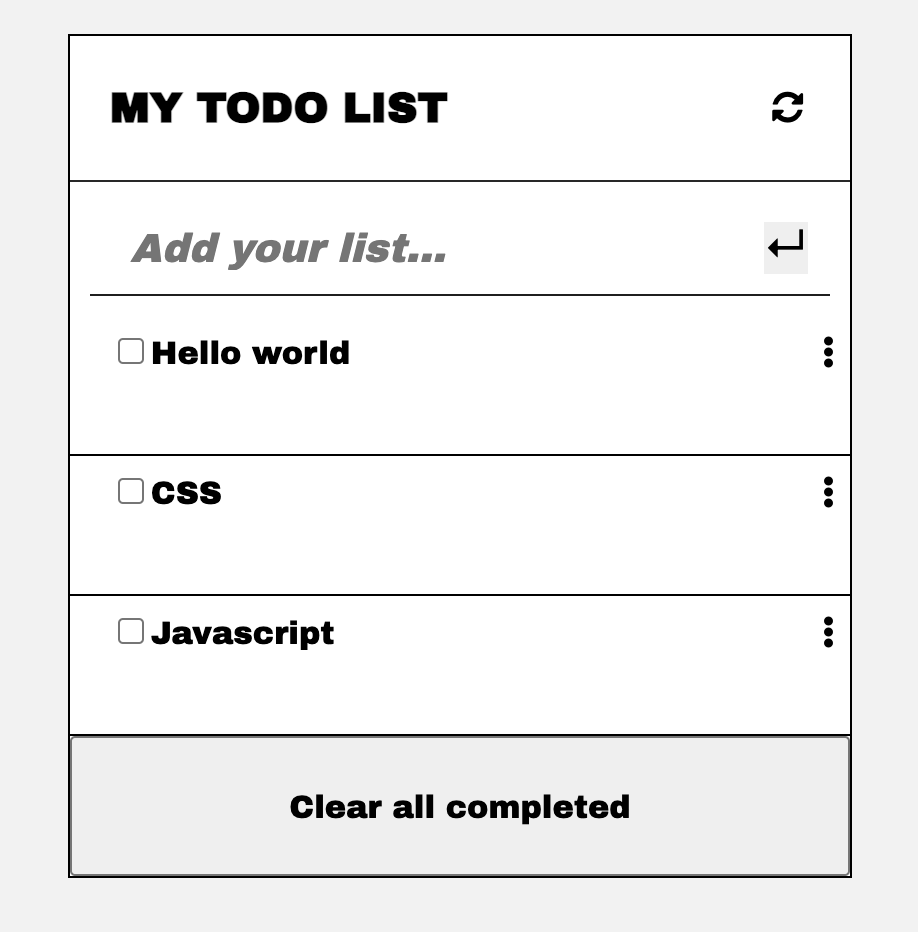
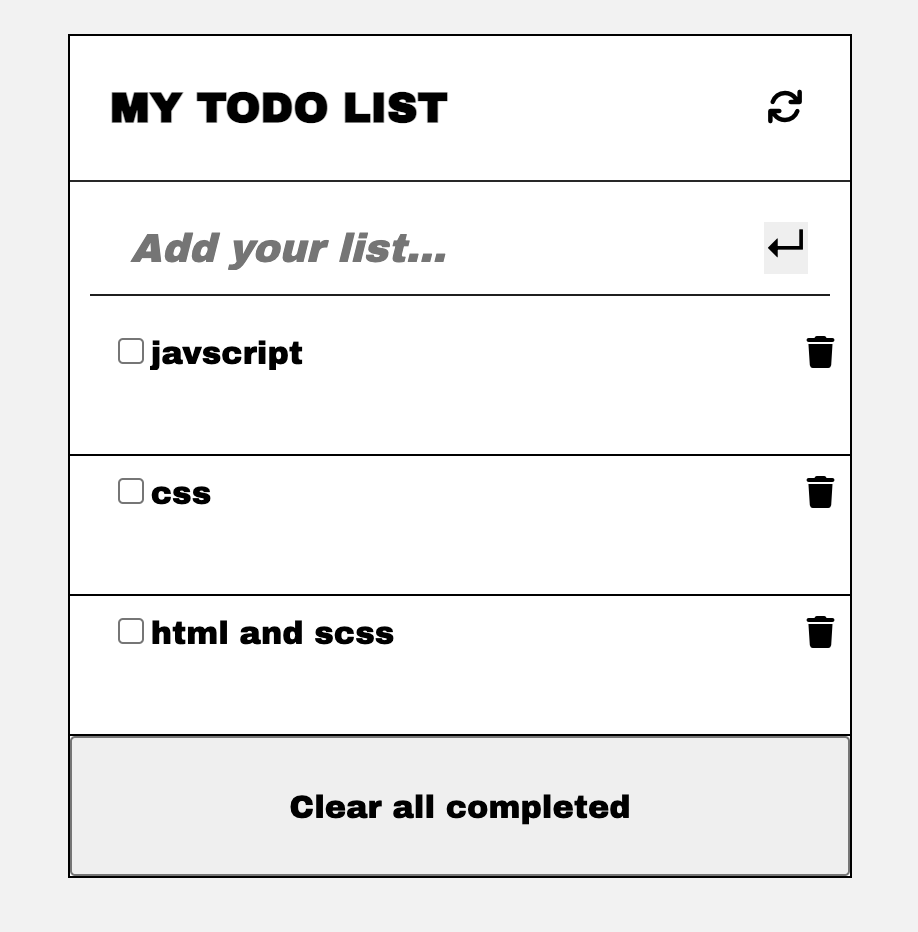
Correct readmefile and htmlfile

diff --git a/dist/output.js b/dist/output.js
@@ -16,7 +16,7 @@
   \*************************************************************/
 /***/ ((module, __webpack_exports__, __webpack_require__) => {
 
-eval("__webpack_require__.r(__webpack_exports__);\n/* harmony export */ __webpack_require__.d(__webpack_exports__, {\n/* harmony export */   \"default\": () => (__WEBPACK_DEFAULT_EXPORT__)\n/* harmony export */ });\n/* harmony import */ var _node_modules_css_loader_dist_runtime_noSourceMaps_js__WEBPACK_IMPORTED_MODULE_0__ = __webpack_require__(/*! ../node_modules/css-loader/dist/runtime/noSourceMaps.js */ \"./node_modules/css-loader/dist/runtime/noSourceMaps.js\");\n/* harmony import */ var _node_modules_css_loader_dist_runtime_noSourceMaps_js__WEBPACK_IMPORTED_MODULE_0___default = /*#__PURE__*/__webpack_require__.n(_node_modules_css_loader_dist_runtime_noSourceMaps_js__WEBPACK_IMPORTED_MODULE_0__);\n/* harmony import */ var _node_modules_css_loader_dist_runtime_api_js__WEBPACK_IMPORTED_MODULE_1__ = __webpack_require__(/*! ../node_modules/css-loader/dist/runtime/api.js */ \"./node_modules/css-loader/dist/runtime/api.js\");\n/* harmony import */ var _node_modules_css_loader_dist_runtime_api_js__WEBPACK_IMPORTED_MODULE_1___default = /*#__PURE__*/__webpack_require__.n(_node_modules_css_loader_dist_runtime_api_js__WEBPACK_IMPORTED_MODULE_1__);\n// Imports\n\n\nvar ___CSS_LOADER_EXPORT___ = _node_modules_css_loader_dist_runtime_api_js__WEBPACK_IMPORTED_MODULE_1___default()((_node_modules_css_loader_dist_runtime_noSourceMaps_js__WEBPACK_IMPORTED_MODULE_0___default()));\n___CSS_LOADER_EXPORT___.push([module.id, \"@import url(https://fonts.googleapis.com/css2?family=Archivo+Black&family=Lato:wght@100;300;400;900&family=Source+Code+Pro:wght@300;400;600;800;900&display=swap);\"]);\n// Module\n___CSS_LOADER_EXPORT___.push([module.id, \"* {\\n  margin: 0;\\n  padding: 0;\\n  box-sizing: border-box;\\n  font-family: 'Archivo Black', sans-serif;\\n}\\n\\nhtml,\\nbody {\\n  overflow-x: scroll;\\n}\\n\\nbody {\\n  position: relative;\\n  height: 100%;\\n  width: 100%;\\n  margin: auto;\\n  background-color: #93bbb5;\\n  display: flex;\\n  align-items: center;\\n  justify-content: center;\\n}\\n\\n.todolist {\\n  margin: 40px;\\n  width: 50%;\\n  background-color: rgb(255, 255, 255);\\n  border: 1px solid black;\\n}\\n\\n.todo-header {\\n  padding: 25px 20px;\\n  display: flex;\\n  justify-content: space-between;\\n  border-bottom: 1px solid rgb(40, 40, 40);\\n  font-size: 18px;\\n}\\n\\n.todo-header a {\\n  margin: auto 1%;\\n}\\n\\n.todo-header a i {\\n  color: black;\\n}\\n\\n.todo-form {\\n  margin: 10px;\\n}\\n\\n#form {\\n  padding: 10px;\\n  border-bottom: 1px solid rgb(31, 31, 31);\\n  display: flex;\\n  justify-content: space-between;\\n}\\n\\n.new-task {\\n  outline: none;\\n  border: none;\\n  margin: auto 1%;\\n  font-size: 20px;\\n  font-style: italic;\\n  width: 100%;\\n}\\n\\n.submit {\\n  outline: none;\\n  border: none;\\n  margin: auto 0.25%;\\n  cursor: pointer;\\n  font-size: 22px;\\n}\\n\\n.to-dos li {\\n  list-style-type: none;\\n  height: 70px;\\n  padding: 10px 0 10px 20px;\\n  position: relative;\\n  border-bottom: 1px solid #000;\\n  text-decoration: none;\\n  width: 100%;\\n  margin: 0 auto;\\n}\\n\\n.to-dos li input {\\n  margin: auto 0 auto 1%;\\n  cursor: pointer;\\n  font-size: 16px;\\n}\\n\\n.to-dos li .todotask {\\n  outline: none;\\n  border: none;\\n  width: 80%;\\n}\\n\\n.to-dos li .todotask:focus {\\n  outline: none;\\n}\\n\\n.to-dos li i {\\n  position: absolute;\\n  right: 2%;\\n  cursor: pointer;\\n}\\n\\n.clear-all {\\n  text-align: center;\\n  font-size: 16px;\\n  width: 100%;\\n  height: 70px;\\n  cursor: pointer;\\n}\\n\\n.strike {\\n  text-decoration: line-through;\\n}\\n\", \"\"]);\n// Exports\n/* harmony default export */ const __WEBPACK_DEFAULT_EXPORT__ = (___CSS_LOADER_EXPORT___);\n\n\n//# sourceURL=webpack://My-Todo-list/./src/style.css?./node_modules/css-loader/dist/cjs.js");
+eval("__webpack_require__.r(__webpack_exports__);\n/* harmony export */ __webpack_require__.d(__webpack_exports__, {\n/* harmony export */   \"default\": () => (__WEBPACK_DEFAULT_EXPORT__)\n/* harmony export */ });\n/* harmony import */ var _node_modules_css_loader_dist_runtime_noSourceMaps_js__WEBPACK_IMPORTED_MODULE_0__ = __webpack_require__(/*! ../node_modules/css-loader/dist/runtime/noSourceMaps.js */ \"./node_modules/css-loader/dist/runtime/noSourceMaps.js\");\n/* harmony import */ var _node_modules_css_loader_dist_runtime_noSourceMaps_js__WEBPACK_IMPORTED_MODULE_0___default = /*#__PURE__*/__webpack_require__.n(_node_modules_css_loader_dist_runtime_noSourceMaps_js__WEBPACK_IMPORTED_MODULE_0__);\n/* harmony import */ var _node_modules_css_loader_dist_runtime_api_js__WEBPACK_IMPORTED_MODULE_1__ = __webpack_require__(/*! ../node_modules/css-loader/dist/runtime/api.js */ \"./node_modules/css-loader/dist/runtime/api.js\");\n/* harmony import */ var _node_modules_css_loader_dist_runtime_api_js__WEBPACK_IMPORTED_MODULE_1___default = /*#__PURE__*/__webpack_require__.n(_node_modules_css_loader_dist_runtime_api_js__WEBPACK_IMPORTED_MODULE_1__);\n// Imports\n\n\nvar ___CSS_LOADER_EXPORT___ = _node_modules_css_loader_dist_runtime_api_js__WEBPACK_IMPORTED_MODULE_1___default()((_node_modules_css_loader_dist_runtime_noSourceMaps_js__WEBPACK_IMPORTED_MODULE_0___default()));\n___CSS_LOADER_EXPORT___.push([module.id, \"@import url(https://fonts.googleapis.com/css2?family=Archivo+Black&family=Lato:wght@100;300;400;900&family=Source+Code+Pro:wght@300;400;600;800;900&display=swap);\"]);\n// Module\n___CSS_LOADER_EXPORT___.push([module.id, \"* {\\n  margin: 0;\\n  padding: 0;\\n  box-sizing: border-box;\\n  font-family: 'Archivo Black', sans-serif;\\n}\\n\\nhtml,\\nbody {\\n  overflow-x: scroll;\\n}\\n\\nbody {\\n  position: relative;\\n  height: 100%;\\n  width: 100%;\\n  margin: auto;\\n  background-color: #f2f2f2;\\n  display: flex;\\n  align-items: center;\\n  justify-content: center;\\n}\\n\\n.todolist {\\n  margin: 40px;\\n  width: 50%;\\n  background-color: rgb(255, 255, 255);\\n  border: 1px solid black;\\n}\\n\\n.todo-header {\\n  padding: 25px 20px;\\n  display: flex;\\n  justify-content: space-between;\\n  border-bottom: 1px solid rgb(40, 40, 40);\\n  font-size: 18px;\\n}\\n\\n.todo-header a {\\n  margin: auto 1%;\\n}\\n\\n.todo-header a i {\\n  color: black;\\n}\\n\\n.todo-form {\\n  margin: 10px;\\n}\\n\\n#form {\\n  padding: 10px;\\n  border-bottom: 1px solid rgb(31, 31, 31);\\n  display: flex;\\n  justify-content: space-between;\\n}\\n\\n.new-task {\\n  outline: none;\\n  border: none;\\n  margin: auto 1%;\\n  font-size: 20px;\\n  font-style: italic;\\n  width: 100%;\\n}\\n\\n.submit {\\n  outline: none;\\n  border: none;\\n  margin: auto 0.25%;\\n  cursor: pointer;\\n  font-size: 22px;\\n}\\n\\n.to-dos li {\\n  list-style-type: none;\\n  height: 70px;\\n  padding: 10px 0 10px 20px;\\n  position: relative;\\n  border-bottom: 1px solid #000;\\n  text-decoration: none;\\n  width: 100%;\\n  margin: 0 auto;\\n}\\n\\n.to-dos li input {\\n  margin: auto 0 auto 1%;\\n  cursor: pointer;\\n  font-size: 16px;\\n}\\n\\n.to-dos li .todotask {\\n  outline: none;\\n  border: none;\\n  width: 80%;\\n}\\n\\n.to-dos li .todotask:focus {\\n  outline: none;\\n}\\n\\n.to-dos li i {\\n  position: absolute;\\n  right: 2%;\\n  cursor: pointer;\\n}\\n\\n.clear-all {\\n  text-align: center;\\n  font-size: 16px;\\n  width: 100%;\\n  height: 70px;\\n  cursor: pointer;\\n}\\n\\n.strike {\\n  text-decoration: line-through;\\n}\\n\", \"\"]);\n// Exports\n/* harmony default export */ const __WEBPACK_DEFAULT_EXPORT__ = (___CSS_LOADER_EXPORT___);\n\n\n//# sourceURL=webpack://My-Todo-list/./src/style.css?./node_modules/css-loader/dist/cjs.js");
 
 /***/ }),
 
@@ -116,7 +116,7 @@ eval("\n\n/* istanbul ignore next  */\nfunction styleTagTransform(css, styleElem
   \**********************/
 /***/ ((__unused_webpack_module, __webpack_exports__, __webpack_require__) => {
 
-eval("__webpack_require__.r(__webpack_exports__);\n/* harmony import */ var _style_css__WEBPACK_IMPORTED_MODULE_0__ = __webpack_require__(/*! ./style.css */ \"./src/style.css\");\n\n\nlet tasks = [];\nconst taskWrapper = document.querySelector('.to-dos');\nconst newTask = document.querySelector('.new-task');\nconst addNewTask = document.querySelector('.submit');\nconst clearAll = document.querySelector('.clear-all');\n\nconst addToLocalStorage = () => {\n  localStorage.setItem('myTasks', JSON.stringify(tasks));\n};\n\nconst getFromLocalStorage = () => {\n  if (localStorage.getItem('myTasks')) {\n    tasks = JSON.parse(localStorage.getItem('myTasks'));\n  }\n  return tasks;\n};\n\nconst resetIndex = (tasks) => {\n  for (let i = 0; i < tasks.length; i += 1) {\n    let indx = i + 1;\n    indx = i;\n    tasks[i].index = indx;\n  }\n};\n\nconst editTask = (desc, index) => {\n  tasks[index].description = desc;\n  addToLocalStorage();\n};\n\nconst displayTasks = () => {\n  taskWrapper.innerHTML = '';\n  const mylocal = getFromLocalStorage();\n  mylocal.forEach((tsk) => {\n    const li = document.createElement('li');\n    const checkbox = document.createElement('input');\n    checkbox.setAttribute('type', 'checkbox');\n    if (tsk.checked === true) {\n      checkbox.setAttribute('checked', 'checked');\n    }\n\n    const rmvTask = (index) => {\n      const mylocal = getFromLocalStorage();\n      mylocal.splice(index, 1);\n      for (let i = index; i < mylocal.length; i += 1) {\n        mylocal[i].index -= 1;\n      }\n      addToLocalStorage();\n      displayTasks();\n    };\n\n    const taskDesc = document.createElement('input');\n    taskDesc.classList.add('todotask');\n    taskDesc.value = tsk.description;\n\n    const deleteTask = document.createElement('i');\n    taskDesc.addEventListener('change', (e) => {\n      e.preventDefault();\n      editTask(e.target.value, tsk.index);\n      taskDesc.blur();\n    });\n    deleteTask.classList.add('fas', 'fa-ellipsis-v');\n    deleteTask.addEventListener('click', () => {\n      rmvTask(tsk.index);\n      resetIndex(mylocal);\n      addToLocalStorage();\n      displayTasks();\n    });\n\n    li.append(checkbox, taskDesc, deleteTask);\n    taskWrapper.appendChild(li);\n  });\n};\nconst clearCompletedTasks = () => {\n  tasks = tasks.filter((item) => !item.checked);\n  resetIndex(tasks);\n  addToLocalStorage();\n  displayTasks();\n};\n\nclearAll.addEventListener('click', clearCompletedTasks);\n\nconst addToTasks = () => {\n  const position = tasks.length;\n  tasks.push({\n    checked: false,\n    description: newTask.value,\n    index: position,\n  });\n  newTask.value = '';\n  addToLocalStorage();\n  displayTasks();\n};\n\nconst reset = document.getElementById('reset');\n\nconst clearAllTasks = () => {\n  tasks = [];\n};\n\nreset.addEventListener('click', () => {\n  clearAllTasks();\n  addToLocalStorage();\n  displayTasks();\n});\n\naddNewTask.addEventListener('click', (e) => {\n  e.preventDefault();\n  addToTasks();\n});\n\ndocument.addEventListener('DOMContentLoaded', () => {\n  getFromLocalStorage();\n  displayTasks();\n});\n\n\n//# sourceURL=webpack://My-Todo-list/./src/index.js?");
+eval("__webpack_require__.r(__webpack_exports__);\n/* harmony import */ var _style_css__WEBPACK_IMPORTED_MODULE_0__ = __webpack_require__(/*! ./style.css */ \"./src/style.css\");\n\n\nlet tasks = [];\nconst taskWrapper = document.querySelector('.to-dos');\nconst newTask = document.querySelector('.new-task');\nconst addNewTask = document.querySelector('.submit');\nconst clearAll = document.querySelector('.clear-all');\n\nconst addToLocalStorage = () => {\n  localStorage.setItem('myTasks', JSON.stringify(tasks));\n};\n\nconst getFromLocalStorage = () => {\n  if (localStorage.getItem('myTasks')) {\n    tasks = JSON.parse(localStorage.getItem('myTasks'));\n  }\n  return tasks;\n};\n\nconst resetIndex = (tasks) => {\n  for (let i = 0; i < tasks.length; i += 1) {\n    let index = i + 1;\n    index = i;\n    tasks[i].index = index;\n  }\n};\n\nconst editTask = (desc, index) => {\n  tasks[index].description = desc;\n  addToLocalStorage();\n};\n\nconst displayTasks = () => {\n  taskWrapper.innerHTML = '';\n  const mylocal = getFromLocalStorage();\n  mylocal.forEach((tsk) => {\n    const li = document.createElement('li');\n    const checkbox = document.createElement('input');\n    checkbox.setAttribute('type', 'checkbox');\n    if (tsk.checked === true) {\n      checkbox.setAttribute('checked', 'checked');\n    }\n\n    const rmvTask = (index) => {\n      const mylocal = getFromLocalStorage();\n      mylocal.splice(index, 1);\n      for (let i = index; i < mylocal.length; i += 1) {\n        mylocal[i].index -= 1;\n      }\n      addToLocalStorage();\n      displayTasks();\n    };\n\n    const taskDesc = document.createElement('input');\n    taskDesc.classList.add('todotask');\n    taskDesc.value = tsk.description;\n\n    const deleteTask = document.createElement('i');\n    taskDesc.addEventListener('change', (e) => {\n      e.preventDefault();\n      editTask(e.target.value, tsk.index);\n      taskDesc.blur();\n    });\n    deleteTask.classList.add('fa-solid', 'fa-trash');\n    deleteTask.addEventListener('click', () => {\n      rmvTask(tsk.index);\n      resetIndex(mylocal);\n      addToLocalStorage();\n      displayTasks();\n    });\n\n    li.append(checkbox, taskDesc, deleteTask);\n    taskWrapper.appendChild(li);\n  });\n};\nconst clearCompletedTasks = () => {\n  tasks = tasks.filter((item) => !item.checked);\n  resetIndex(tasks);\n  addToLocalStorage();\n  displayTasks();\n};\n\nclearAll.addEventListener('click', clearCompletedTasks);\n\nconst addToTasks = () => {\n  const position = tasks.length;\n  tasks.push({\n    checked: false,\n    description: newTask.value,\n    index: position,\n  });\n  newTask.value = '';\n  addToLocalStorage();\n  displayTasks();\n};\n\nconst reset = document.getElementById('reset');\n\nconst clearAllTasks = () => {\n  tasks = [];\n};\n\nreset.addEventListener('click', () => {\n  clearAllTasks();\n  addToLocalStorage();\n  displayTasks();\n});\n\naddNewTask.addEventListener('click', (e) => {\n  e.preventDefault();\n  addToTasks();\n});\n\ndocument.addEventListener('DOMContentLoaded', () => {\n  getFromLocalStorage();\n  displayTasks();\n});\n\n\n//# sourceURL=webpack://My-Todo-list/./src/index.js?");
 
 /***/ })
 

diff --git a/dist/index.html b/dist/index.html
@@ -4,24 +4,16 @@
     <meta charset="UTF-8" />
     <meta http-equiv="X-UA-Compatible" content="IE=edge" />
     <meta name="viewport" content="width=device-width, initial-scale=1.0" />
-
     <link
       rel="stylesheet"
-      href="https://use.fontawesome.com/releases/v5.15.4/css/all.css"
-      integrity="sha384-DyZ88mC6Up2uqS4h/KRgHuoeGwBcD4Ng9SiP4dIRy0EXTlnuz47vAwmeGwVChigm"
+      href="https://cdnjs.cloudflare.com/ajax/libs/font-awesome/6.0.0/css/all.min.css"
+      integrity="sha512-9usAa10IRO0HhonpyAIVpjrylPvoDwiPUiKdWk5t3PyolY1cOd4DSE0Ga+ri4AuTroPR5aQvXU9xC6qOPnzFeg=="
       crossorigin="anonymous"
+      referrerpolicy="no-referrer"
     />
-    <link
-      rel="stylesheet"
-      href="http://maxcdn.bootstrapcdn.com/font-awesome/4.2.0/css/font-awesome.min.css"
-    />
-    <link
-      rel="stylesheet"
-      href="https://cdnjs.cloudflare.com/ajax/libs/font-awesome/4.7.0/css/font-awesome.min.css"
-    />
-
     <title>my-todo-list</title>
-  <script defer src="output.js"></script></head>
+    <script defer src="output.js"></script>
+  </head>
   <body>
     <section class="todolist">
       <div class="todo-header">

diff --git a/src/index.html b/src/index.html
@@ -4,22 +4,13 @@
     <meta charset="UTF-8" />
     <meta http-equiv="X-UA-Compatible" content="IE=edge" />
     <meta name="viewport" content="width=device-width, initial-scale=1.0" />
-
     <link
       rel="stylesheet"
-      href="https://use.fontawesome.com/releases/v5.15.4/css/all.css"
-      integrity="sha384-DyZ88mC6Up2uqS4h/KRgHuoeGwBcD4Ng9SiP4dIRy0EXTlnuz47vAwmeGwVChigm"
+      href="https://cdnjs.cloudflare.com/ajax/libs/font-awesome/6.0.0/css/all.min.css"
+      integrity="sha512-9usAa10IRO0HhonpyAIVpjrylPvoDwiPUiKdWk5t3PyolY1cOd4DSE0Ga+ri4AuTroPR5aQvXU9xC6qOPnzFeg=="
       crossorigin="anonymous"
+      referrerpolicy="no-referrer"
     />
-    <link
-      rel="stylesheet"
-      href="http://maxcdn.bootstrapcdn.com/font-awesome/4.2.0/css/font-awesome.min.css"
-    />
-    <link
-      rel="stylesheet"
-      href="https://cdnjs.cloudflare.com/ajax/libs/font-awesome/4.7.0/css/font-awesome.min.css"
-    />
-
     <title>my-todo-list</title>
   </head>
   <body>

diff --git a/src/index.js b/src/index.js
@@ -19,9 +19,9 @@ const getFromLocalStorage = () => {
 
 const resetIndex = (tasks) => {
   for (let i = 0; i < tasks.length; i += 1) {
-    let indx = i + 1;
-    indx = i;
-    tasks[i].index = indx;
+    let index = i + 1;
+    index = i;
+    tasks[i].index = index;
   }
 };
 
@@ -61,7 +61,7 @@ const displayTasks = () => {
       editTask(e.target.value, tsk.index);
       taskDesc.blur();
     });
-    deleteTask.classList.add('fas', 'fa-ellipsis-v');
+    deleteTask.classList.add('fa-solid', 'fa-trash');
     deleteTask.addEventListener('click', () => {
       rmvTask(tsk.index);
       resetIndex(mylocal);
